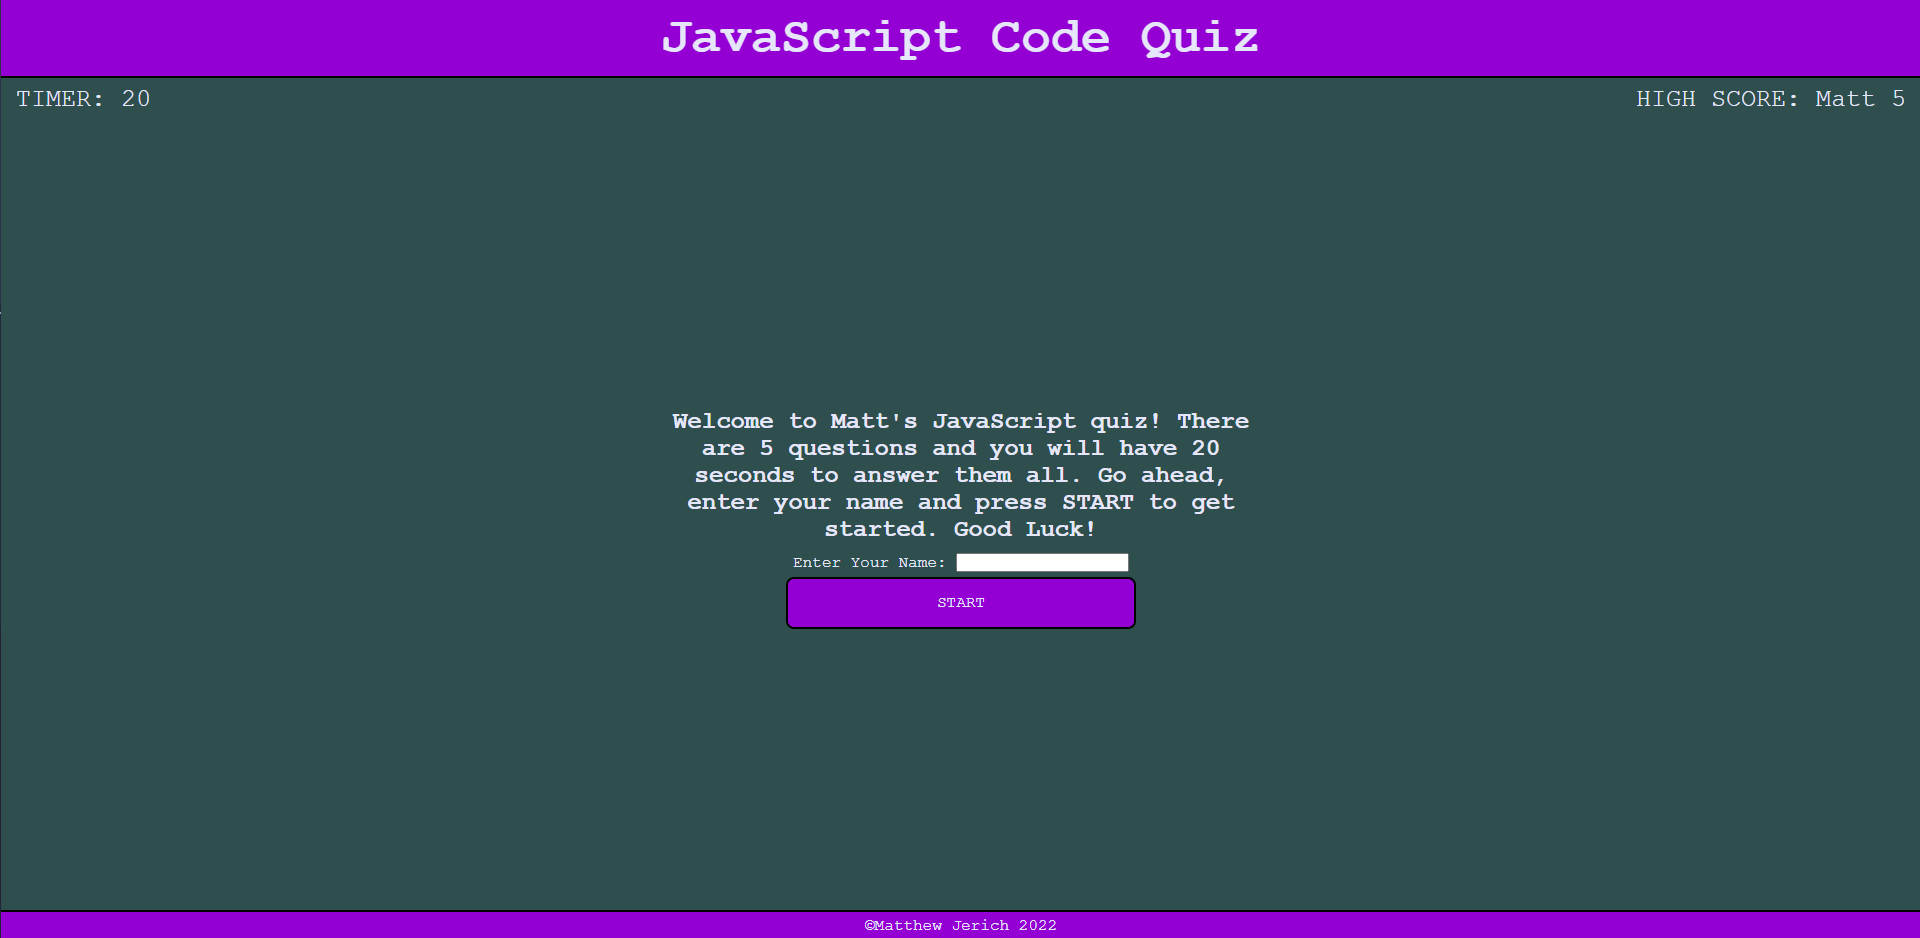
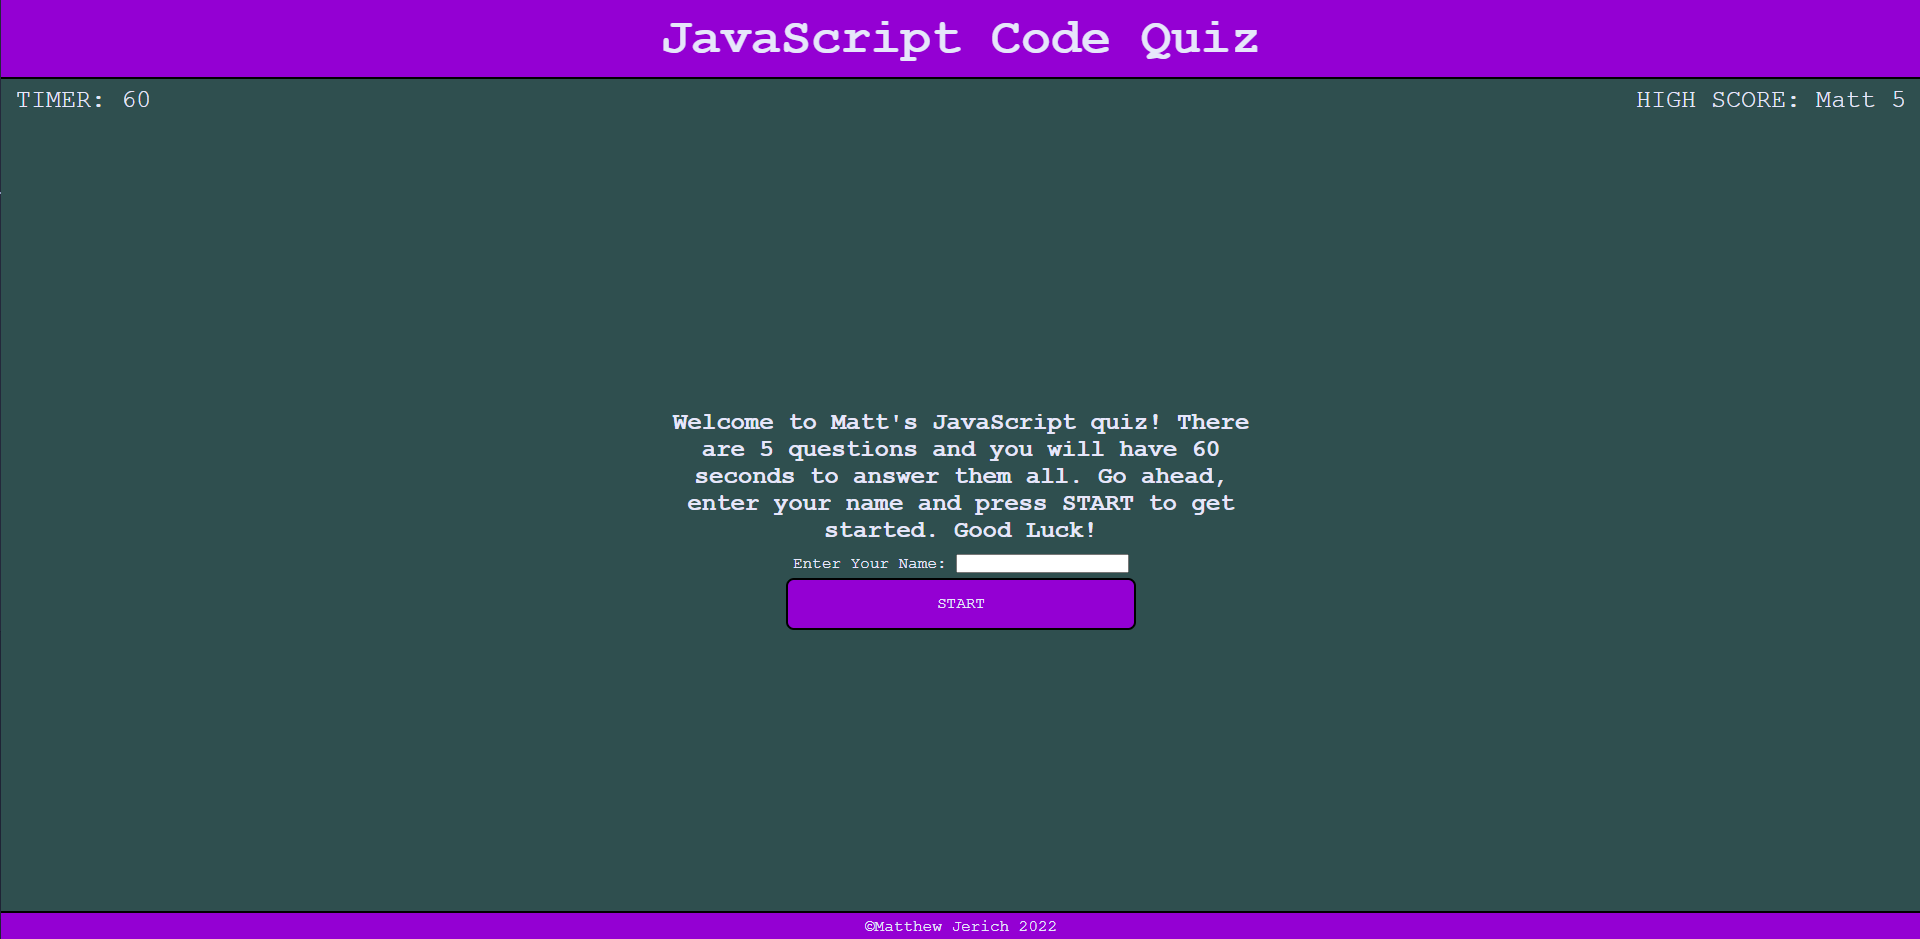
after user testing i changed the time limit to 60 seconds.

diff --git a/index.html b/index.html
@@ -19,7 +19,7 @@
         </header>
         <section id="questions">
             <h2 class="questionTitle">Welcome to Matt's JavaScript quiz! There are 5 questions
-                and you will have 30 seconds to answer them all. Go ahead, enter your name and
+                and you will have 60 seconds to answer them all. Go ahead, enter your name and
                 press START to get started. Good Luck!
             </h2>
             <form id="name-form">

diff --git a/assets/javascript/script.js b/assets/javascript/script.js
@@ -3,7 +3,7 @@ let saveData = {savedName: "", highScore: 0};
 const mainContentEl = document.querySelector("#questions");
 let correctAnswerEl = document.getElementsByClassName("correct");
 let questionCounter = 1
-let timeLeft = 30
+let timeLeft = 60
 let timerEl = document.querySelector("#timer");
 let highScoreEl = document.querySelector("#high-score");
 let isFinished = false
